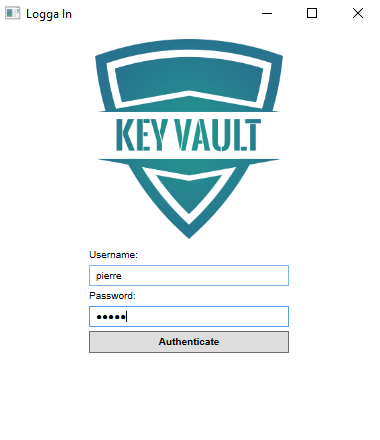
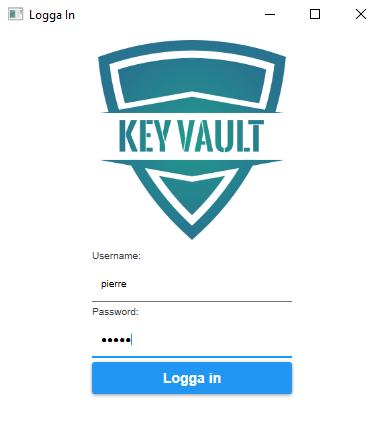
Did some design changes

diff --git a/KeyManager/ServiceWindow.xaml b/KeyManager/ServiceWindow.xaml
@@ -3,27 +3,44 @@
         xmlns:x="http://schemas.microsoft.com/winfx/2006/xaml"
         xmlns:d="http://schemas.microsoft.com/expression/blend/2008"
         xmlns:mc="http://schemas.openxmlformats.org/markup-compatibility/2006"
+        xmlns:materialDesign="http://materialdesigninxaml.net/winfx/xaml/themes"
         xmlns:local="clr-namespace:KeyManager"
         mc:Ignorable="d"
-        Title="Service" Height="200" Width="300" FontFamily="Arial" FontSize="10">
+        Title="Service" Height="300" Width="400" FontFamily="Arial" FontSize="10">
     <Grid>
-        <DockPanel>
-            <StackPanel Margin="4" DataContext="{Binding Service}"  DockPanel.Dock="Top" Orientation="Horizontal">
-                <Label Content="Keys för Service: " />
-                <Label Content="{Binding Name}" />
-            </StackPanel>
-            <ListView DockPanel.Dock="Bottom" Name="lvKeys" Margin="4 0 4 4">
-                <ListView.ItemTemplate>
-                    <DataTemplate>
-                        <StackPanel Margin="5">
-                            <StackPanel Orientation="Horizontal" Margin="0 12">
-                                <TextBlock Padding="0" VerticalAlignment="Center" Text="Key: "  />
-                                <TextBlock Padding="0" VerticalAlignment="Center" Text="{Binding Value}" Margin="0 0 12 0" />
-                            </StackPanel>
+        <Grid.RowDefinitions>
+            <RowDefinition Height="30" />
+            <RowDefinition Height="*" />
+            <RowDefinition Height="50" />
+        </Grid.RowDefinitions>
+
+        <StackPanel Margin="4" Grid.Row="0"  DataContext="{Binding Service}" Orientation="Horizontal">
+            <Label Content="Keys för Service: " />
+            <Label Content="{Binding Name}" />
+        </StackPanel>
+
+        <ListView Grid.Row="1" Name="lvKeys" Margin="4 0 4 4">
+            <ListView.ItemTemplate>
+                <DataTemplate>
+                    <StackPanel Margin="5">
+                        <StackPanel Orientation="Horizontal" Margin="0 12">
+                            <TextBlock Padding="0" VerticalAlignment="Center" Text="Key: "  />
+                            <TextBlock Padding="0" VerticalAlignment="Center" Text="{Binding Value}" Margin="0 0 12 0" />
                         </StackPanel>
-                    </DataTemplate>
-                </ListView.ItemTemplate>
-            </ListView>
-        </DockPanel>
+                    </StackPanel>
+                </DataTemplate>
+            </ListView.ItemTemplate>
+        </ListView>
+
+        <Grid Grid.Row="2">
+            <Grid.ColumnDefinitions>
+                <ColumnDefinition Width="3*" />
+                <ColumnDefinition Width="3*" />
+                <ColumnDefinition Width="3*" />
+            </Grid.ColumnDefinitions>
+            <Button Grid.Column="0" Style="{StaticResource MaterialDesignFlatLightBgButton}" ToolTip="Lägg till Key" Name="addButton" FontWeight="Bold" Padding="4" Margin="4 0" Content="{materialDesign:PackIcon KeyPlus}" />
+            <Button Grid.Column="1" Style="{StaticResource MaterialDesignFlatLightBgButton}" ToolTip="Ta bort Key" Name="removeBtn" FontWeight="Bold" Padding="4" Margin="4 0" Content="{materialDesign:PackIcon KeyRemove}" />
+            <Button Grid.Column="2" Style="{StaticResource MaterialDesignFlatLightBgButton}" ToolTip="Ändra Key" Name="changeBtn" FontWeight="Bold" Padding="4" Margin="4 0" Content="{materialDesign:PackIcon KeyChange}" />
+        </Grid>
     </Grid>
 </Window>

diff --git a/KeyManager/MainWindow.xaml b/KeyManager/MainWindow.xaml
@@ -3,6 +3,7 @@
         xmlns:x="http://schemas.microsoft.com/winfx/2006/xaml"
         xmlns:d="http://schemas.microsoft.com/expression/blend/2008"
         xmlns:mc="http://schemas.openxmlformats.org/markup-compatibility/2006"
+        xmlns:materialDesign="http://materialdesigninxaml.net/winfx/xaml/themes"
         xmlns:local="clr-namespace:KeyManager"
         mc:Ignorable="d"
         Title="Key Manager 2.0" Height="600" Width="500" FontFamily="Arial" FontSize="12">
@@ -25,8 +26,8 @@
 
             <DockPanel DockPanel.Dock="Bottom" Margin="4 0 4 0">
                 <StackPanel DockPanel.Dock="Bottom" Orientation="Vertical">
-                    <Button Foreground="White" Name="addButton" Click="addBtn_Click" FontWeight="Bold" Padding="4" Margin="0 10 0 4" Content="Lägg till Service" />
-                    <Button Foreground="White" Name="removeBtn" Click="removeBtn_Click" FontWeight="Bold" Padding="4" Margin="0 0 0 10" Content="Ta bort Service" />
+                    <Button Style="{StaticResource MaterialDesignRaisedDarkButton}" Foreground="White" Name="addButton" Click="addBtn_Click" Padding="4" Margin="0 10 0 4" Content="Lägg till Service" />
+                    <Button Style="{StaticResource MaterialDesignRaisedDarkButton}" Foreground="White" Name="removeBtn" Click="removeBtn_Click" Padding="4" Margin="0 0 0 10" Content="Ta bort Service" />
                 </StackPanel>
                 <ListView DockPanel.Dock="Top" Name="lvServices" MouseDoubleClick="lvServices_Click">
                     <ListView.ItemTemplate>
@@ -44,8 +45,8 @@
             </DockPanel>
         </DockPanel>
 
-        <StackPanel Grid.Row="2" Background="#FFf5f5f5" >
-            <DockPanel Width="400" Margin="4">
+        <StackPanel Grid.Row="2">
+            <DockPanel Width="400" Margin="4 14 4 4">
                 <StackPanel Orientation="Vertical" DockPanel.Dock="Left">
                     <Label Padding="0" HorizontalContentAlignment="Left" Foreground="Gray" Content="Copyright © 2020 Pierre Nygård" />
                     <Label Padding="0 4 0 0" HorizontalContentAlignment="Left" Foreground="Gray" Content="Key Manager v2.0" />

diff --git a/KeyManager/App.xaml b/KeyManager/App.xaml
@@ -9,8 +9,8 @@
             <ResourceDictionary.MergedDictionaries>
                 <ResourceDictionary Source="pack://application:,,,/MaterialDesignThemes.Wpf;component/Themes/MaterialDesignTheme.Light.xaml" />
                 <ResourceDictionary Source="pack://application:,,,/MaterialDesignThemes.Wpf;component/Themes/MaterialDesignTheme.Defaults.xaml" />
-                <ResourceDictionary Source="pack://application:,,,/MaterialDesignColors;component/Themes/Recommended/Primary/MaterialDesignColor.Cyan.xaml" />
-                <ResourceDictionary Source="pack://application:,,,/MaterialDesignColors;component/Themes/Recommended/Accent/MaterialDesignColor.Lime.xaml" />
+                <ResourceDictionary Source="pack://application:,,,/MaterialDesignColors;component/Themes/Recommended/Primary/MaterialDesignColor.Blue.xaml" />
+                <ResourceDictionary Source="pack://application:,,,/MaterialDesignColors;component/Themes/Recommended/Accent/MaterialDesignColor.Teal.xaml" />
             </ResourceDictionary.MergedDictionaries>
         </ResourceDictionary>
     </Application.Resources>

diff --git a/KeyManager/AuthenticationWindow.xaml b/KeyManager/AuthenticationWindow.xaml
@@ -4,6 +4,7 @@
         xmlns:d="http://schemas.microsoft.com/expression/blend/2008"
         xmlns:mc="http://schemas.openxmlformats.org/markup-compatibility/2006"
         xmlns:local="clr-namespace:KeyManager"
+        xmlns:materialDesign="http://materialdesigninxaml.net/winfx/xaml/themes"
         mc:Ignorable="d"
         Title="Logga In" Height="450" Width="400" FontFamily="Arial" FontSize="10">
     <Grid>
@@ -22,7 +23,7 @@
                 <Label Padding="0 0 0 4" Content="Password:" Width="200" />
                 <PasswordBox Padding="4" x:Name="passwordTextBox"  />
             </StackPanel>
-            <Button Foreground="White" FontWeight="Bold" Content="Authenticate" Click="AuthButton_Click" Padding="4" />
+            <Button Style="{StaticResource MaterialDesignFlatButton}" ToolTip="Logga In" Click="AuthButton_Click" Content="{materialDesign:PackIcon SignIn}" />
         </StackPanel>
     </Grid>
 </Window>
